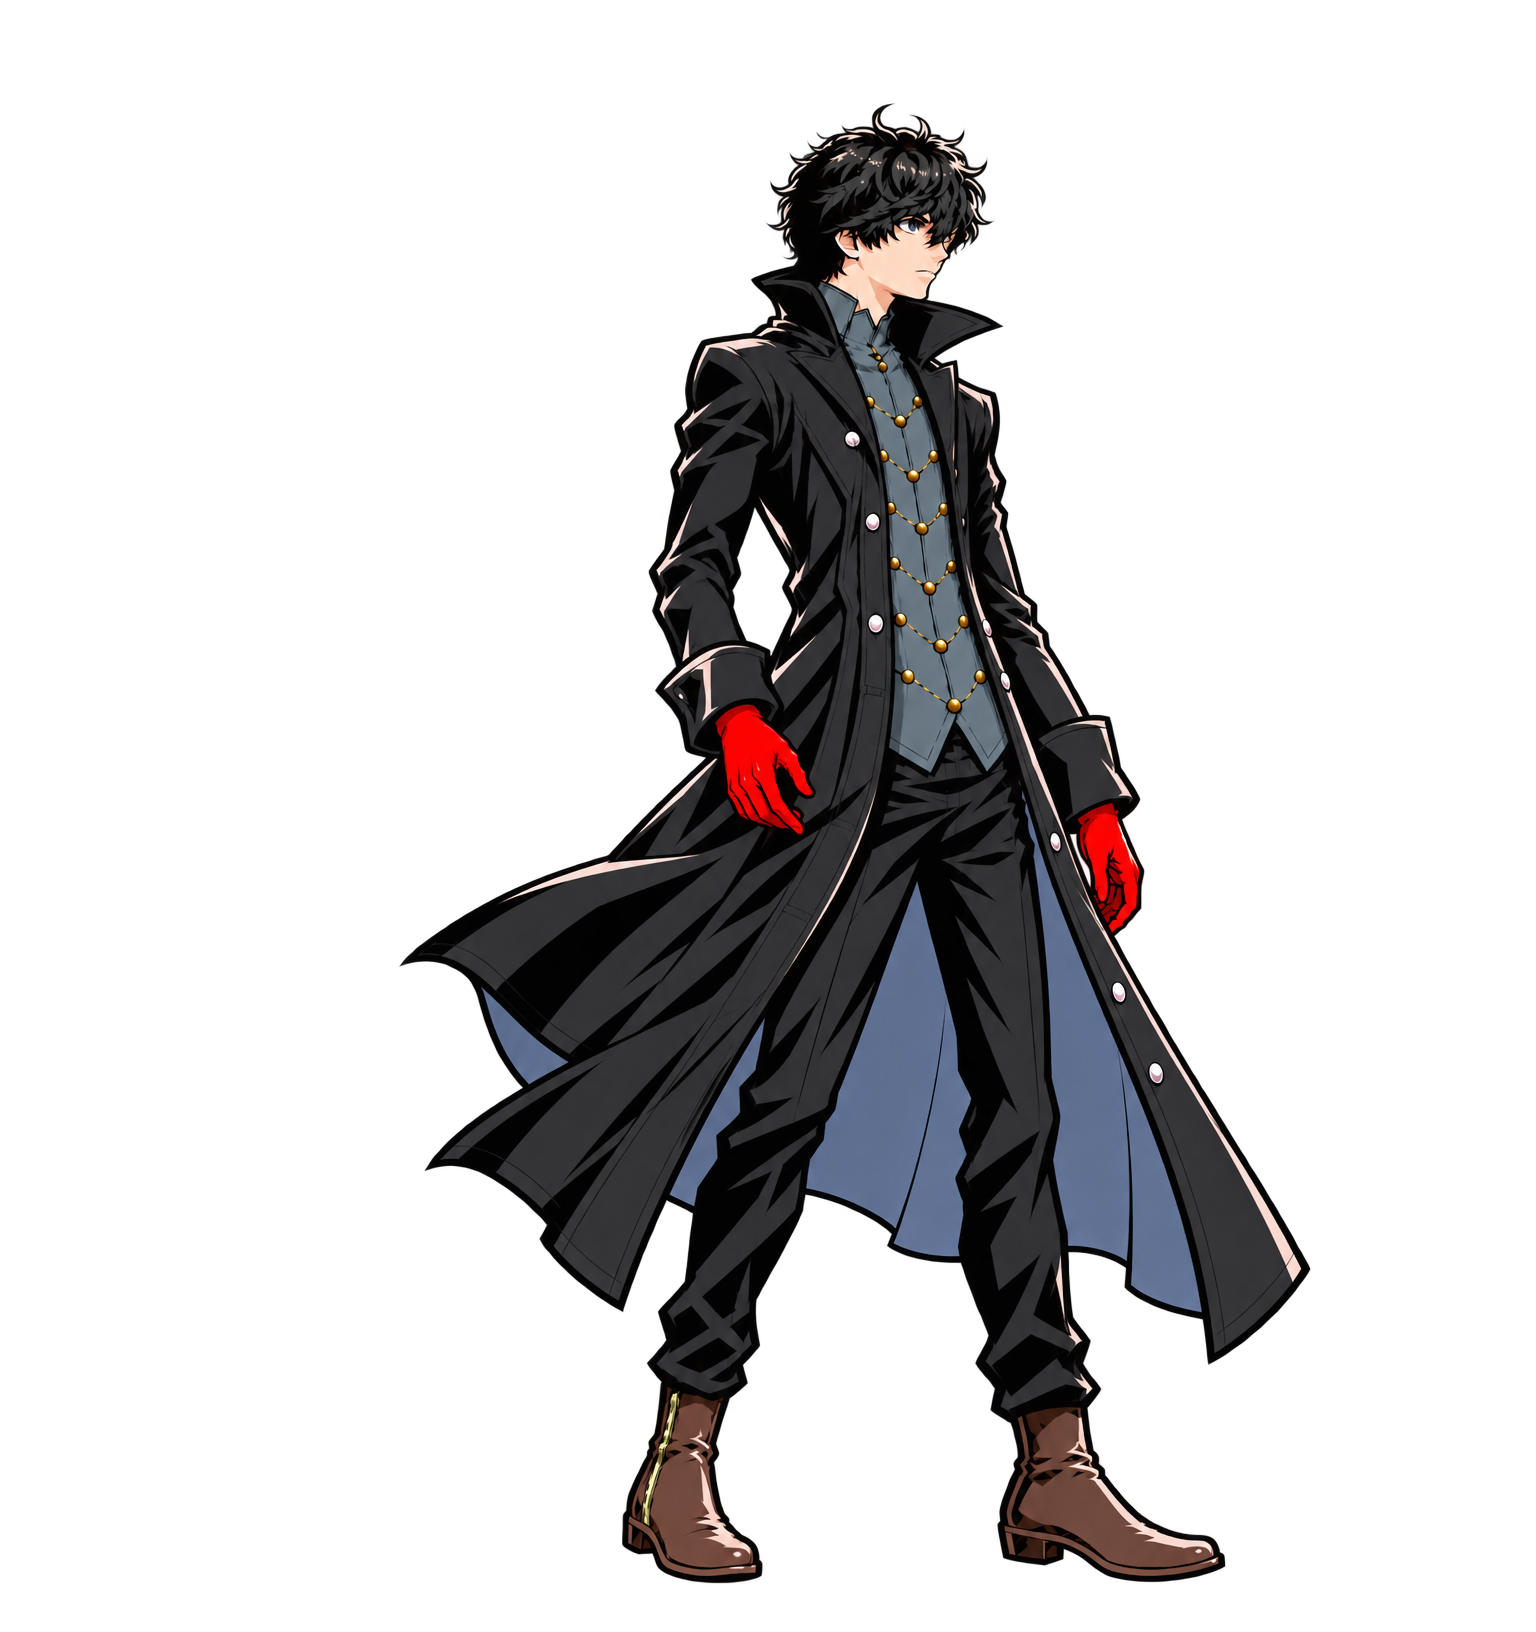
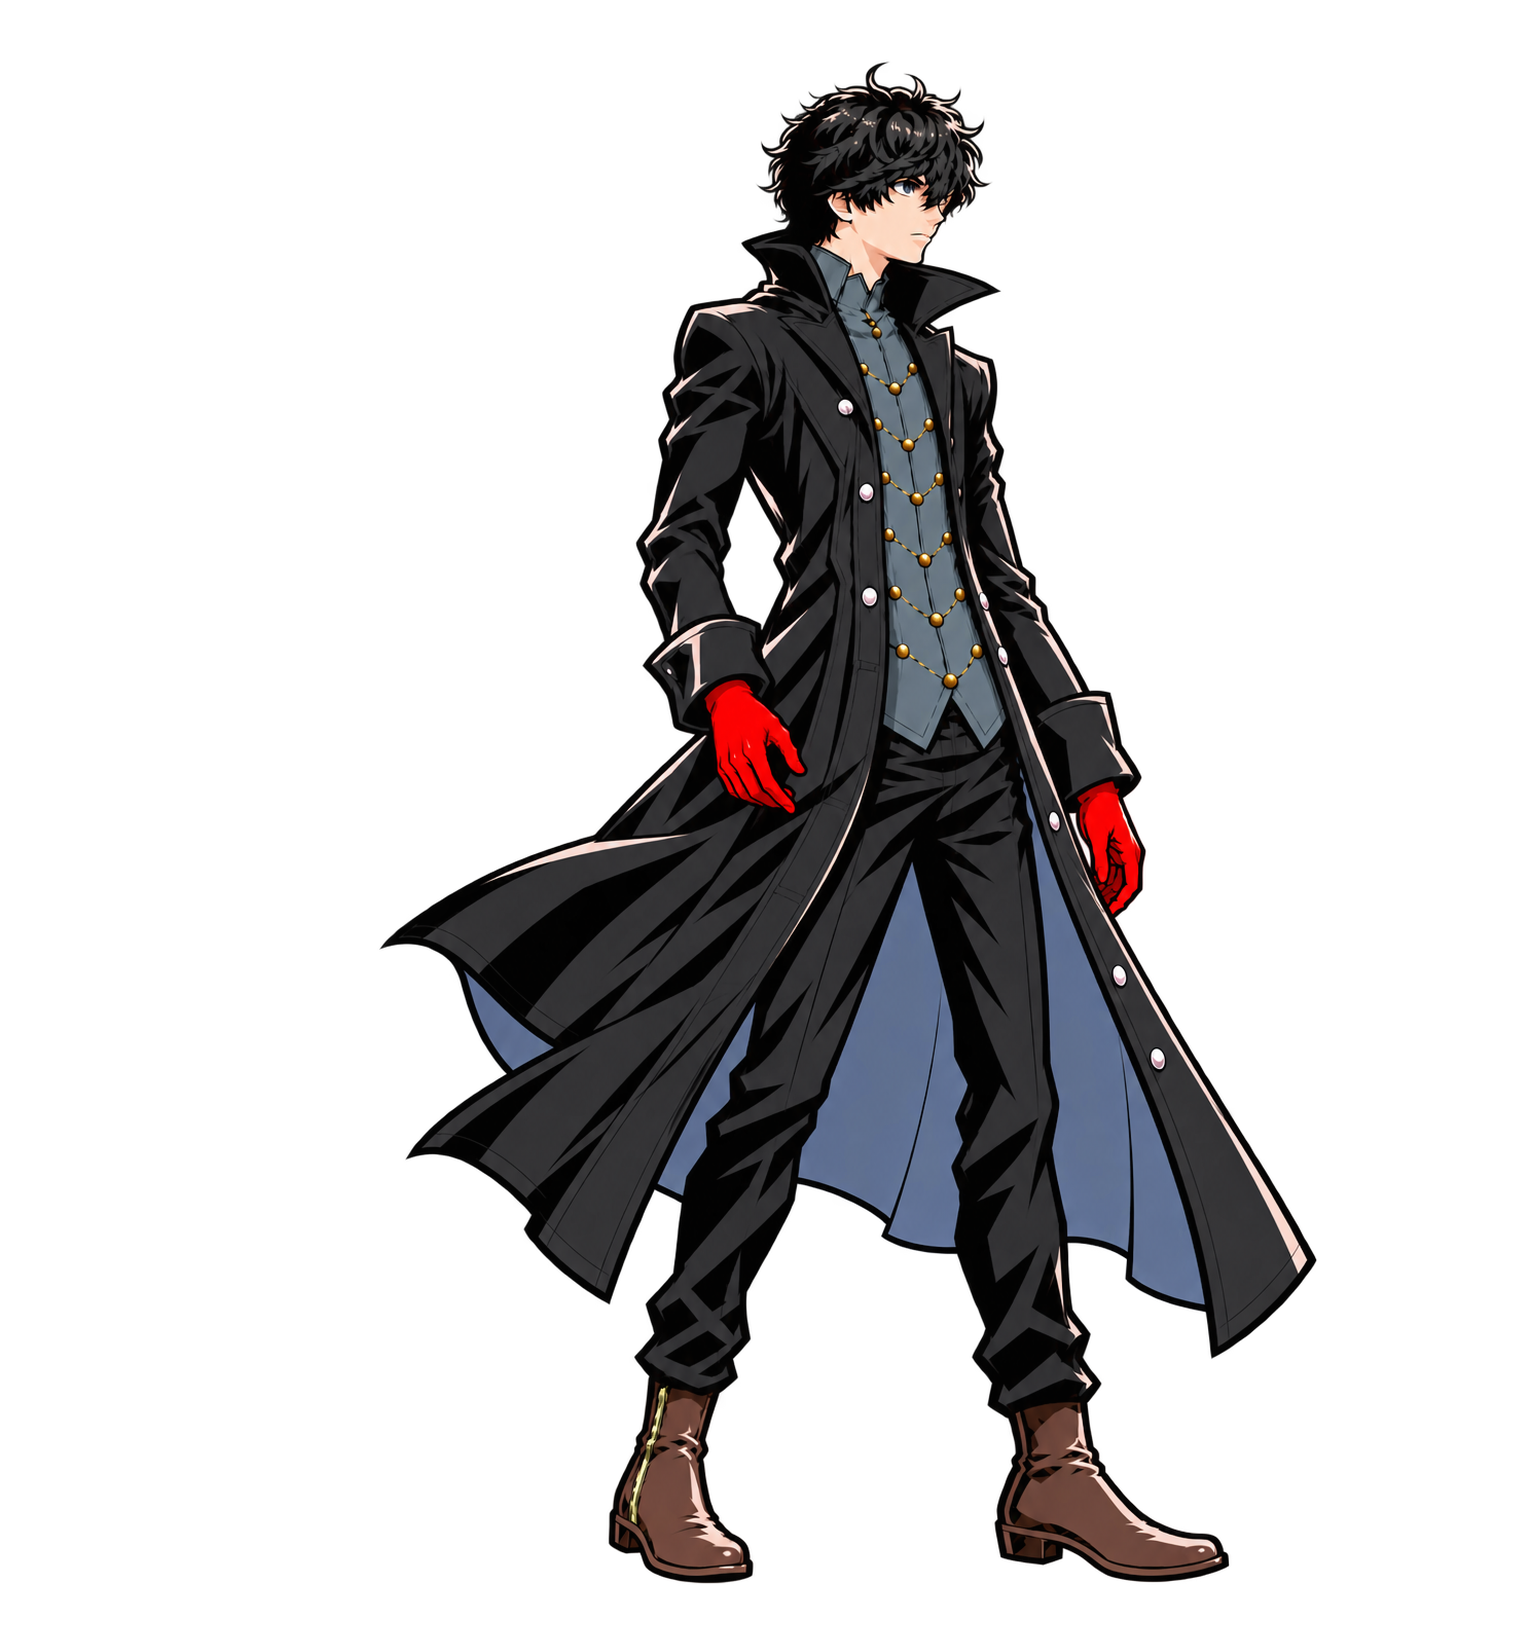
art: P5 summon down1_c/down25_c scaled; return path settle->down1_c->down25_c->down3_c
Claude-Session: https://claude.ai/code/session_01Nam5m2bn9ofCCWTGM6fwcN

Changed region(s): [[0.25, 0.0312, 0.875, 0.9688]]

diff --git a/tools/p5/normalize_poses.py b/tools/p5/normalize_poses.py
@@ -36,8 +36,8 @@ POSES = {'idle_a3': (1.0, 'rear'), 'guard_a2': (1.0, 'front'), 'knife_ready_a': 
          'summon_open1_b': (1.0, 'front'), 'summon_open2_b': (1.0, 'front'),
          'summon_release_b': (1.03, 'front'), 'summon_settle_b': (1.033, 'front'),
          'summon_down1_b': (1.03, 'front'), 'summon_down2_b': (1.03, 'front'), 'summon_down3_b': (1.0, 'front'),
-         'summon_down2_c': (1.015, 'front'), 'summon_down3_c': (1.02, 'front'),
-         'summon_down1_c': (1.0, 'front'), 'summon_down25_c': (1.0, 'front')}
+         'summon_down2_c': (1.015, 'front'), 'summon_down3_c': (1.01, 'front'),
+         'summon_down1_c': (1.028, 'front'), 'summon_down25_c': (1.016, 'front')}
 
 
 def load(n):
